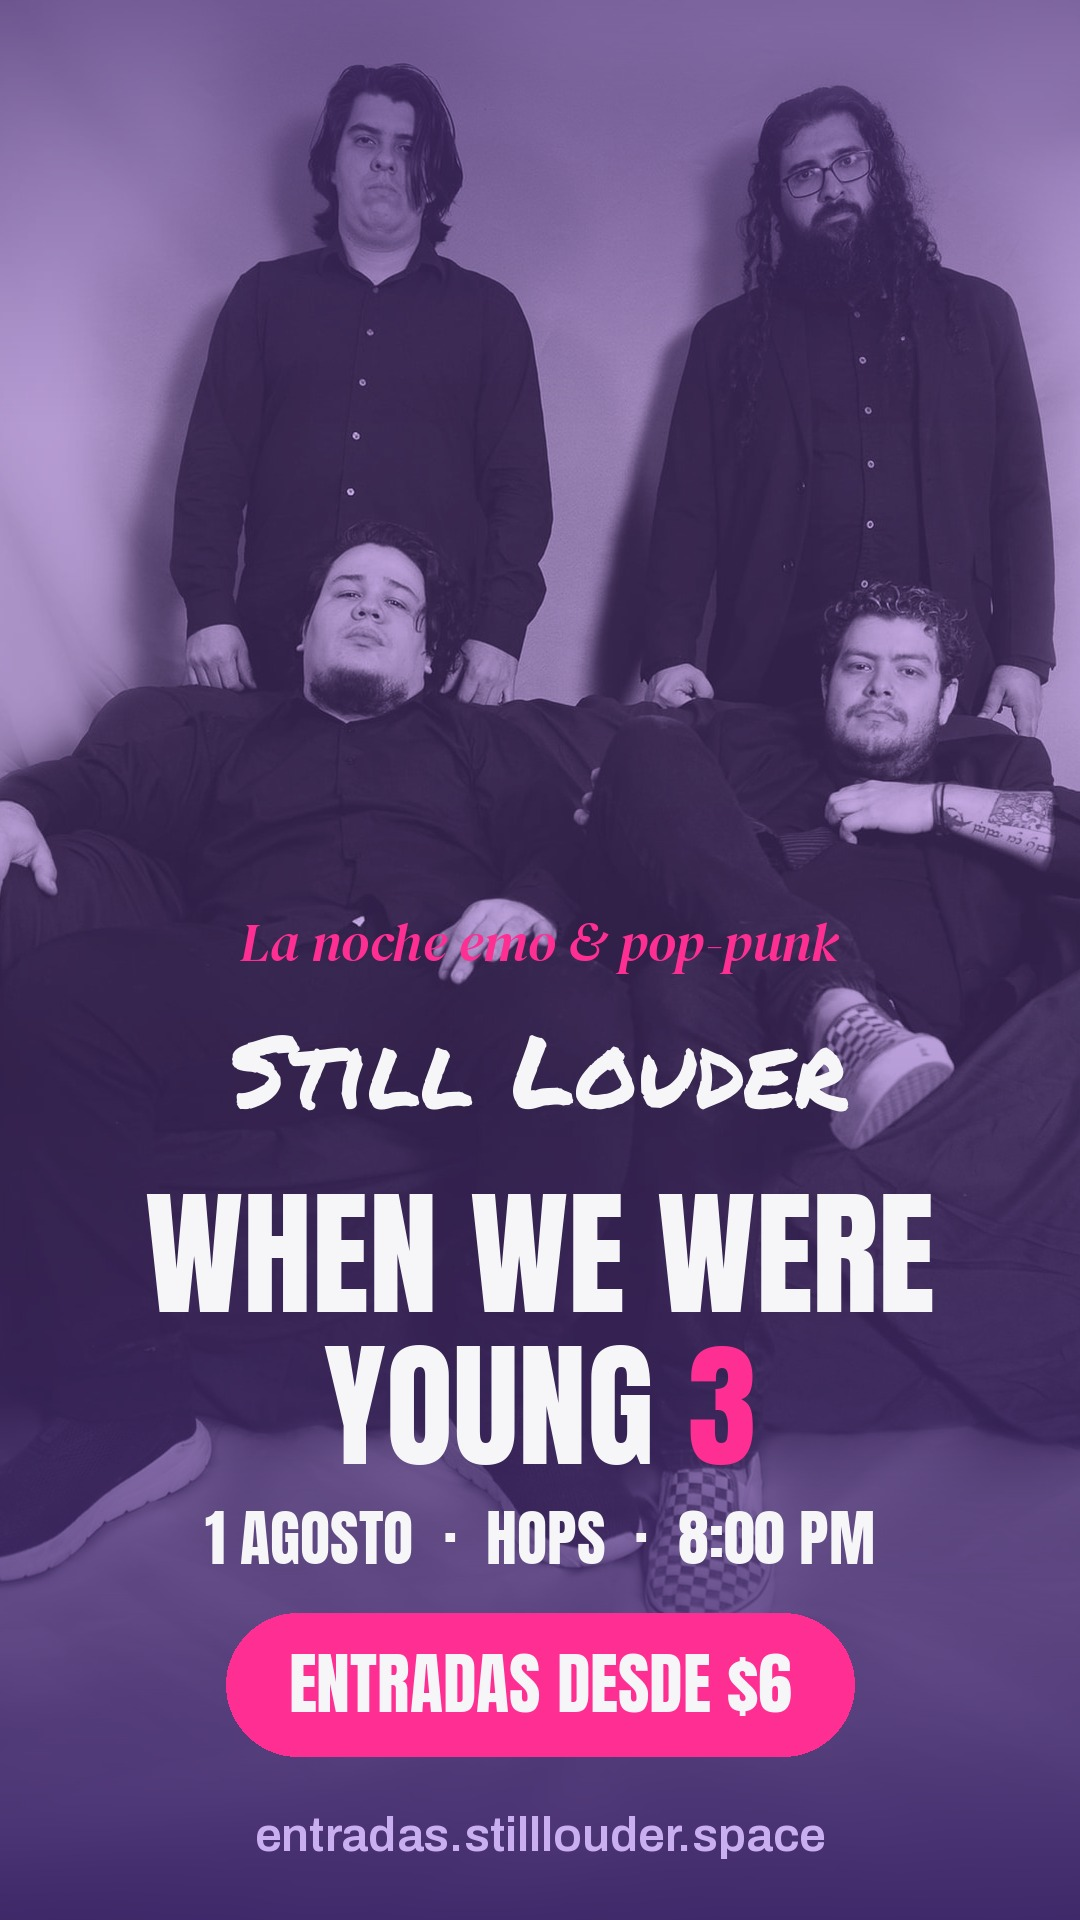
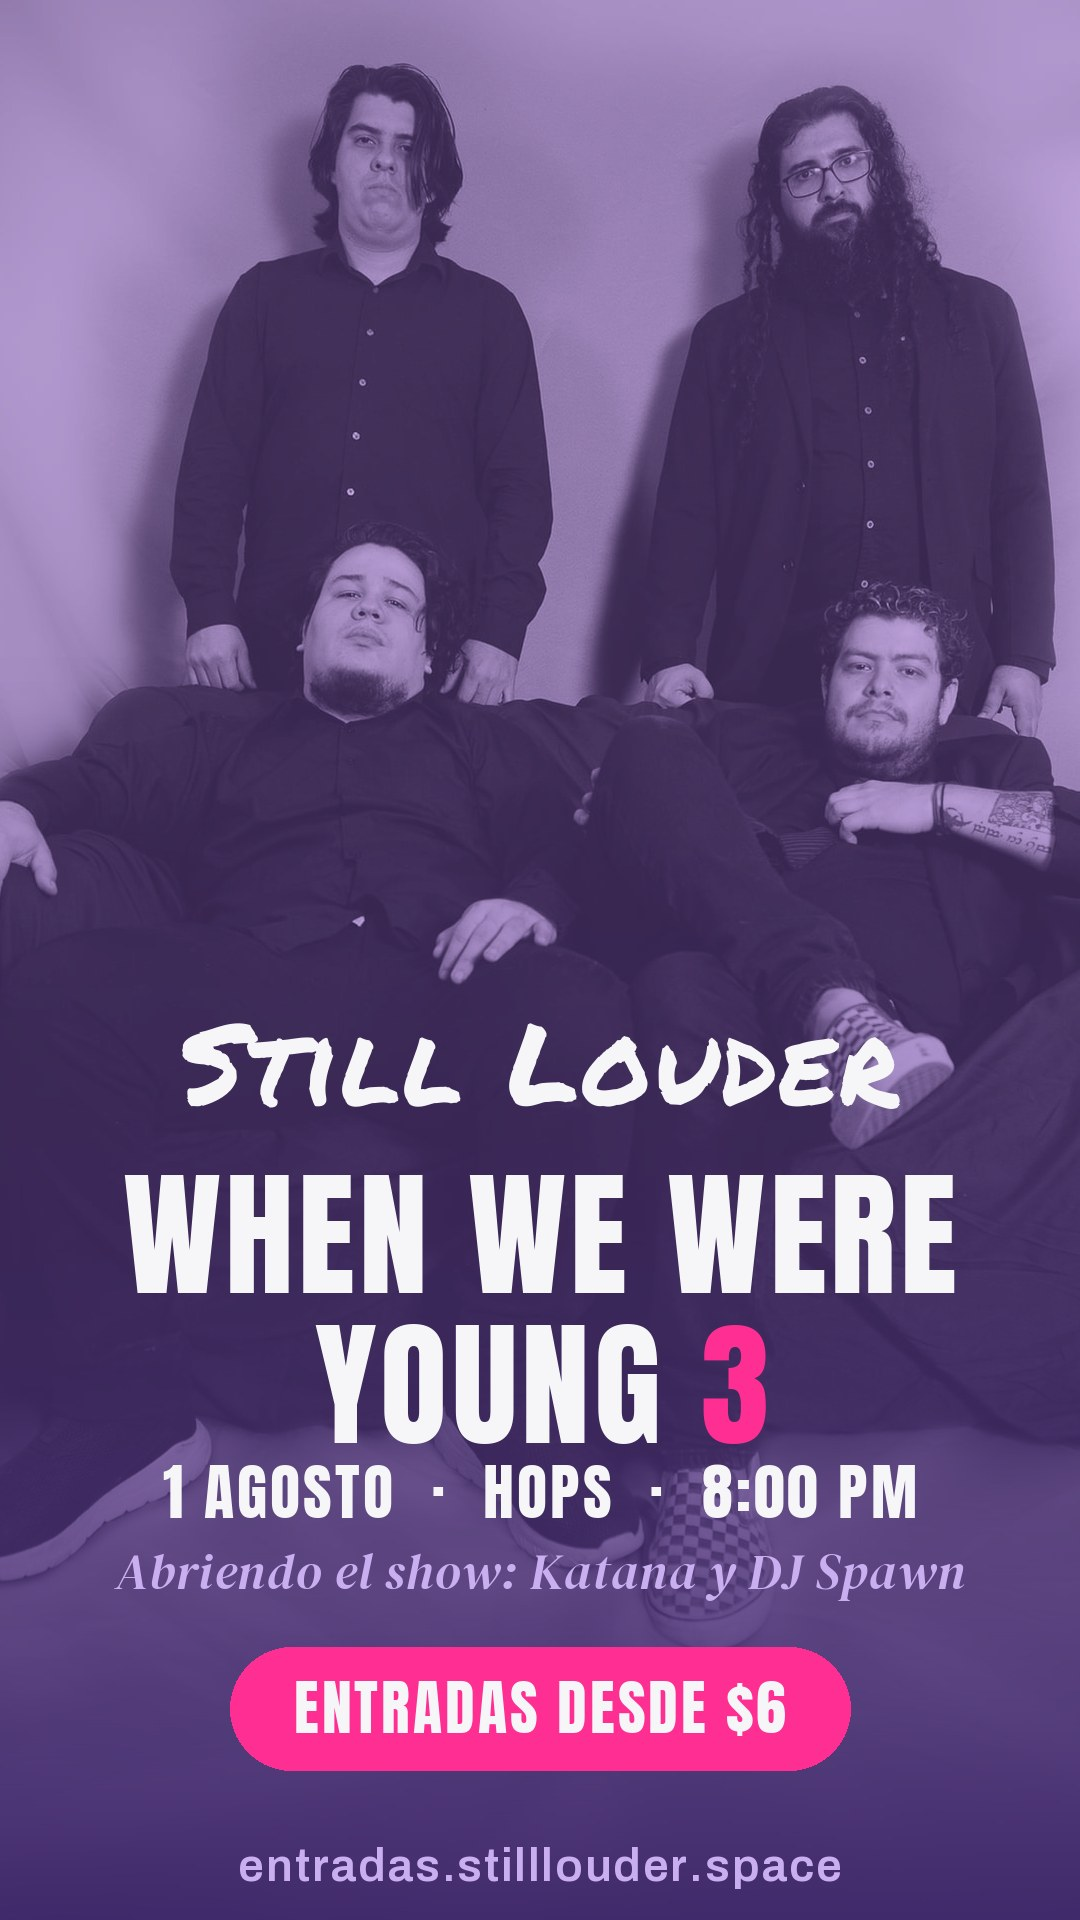
chore: update WWWY3 story image with opener acts, drop emo/pop-punk kicker
Recreate the 9:16 Instagram story in the same layout: remove the
"La noche emo & pop-punk" kicker and add "Abriendo el show: Katana y
DJ Spawn" below the date line. Also version the generator script in
scripts/ for reproducibility.

https://claude.ai/code/session_013fhQ86q2SSvqLmY538bL6r

Changed region(s): [[0.1222, 0.5312, 0.8861, 1.0], [0.0, 0.0, 1.0, 0.125], [0.2139, 0.4688, 0.7639, 0.5]]

diff --git a/scripts/make-wwwy3-story.py b/scripts/make-wwwy3-story.py
@@ -1,0 +1,166 @@
+#!/usr/bin/env python3
+"""Generate the 9:16 (1080x1920) WWWY3 ticket story image for Instagram.
+
+Recreates the OG share preview (`ticket-system/public/og-image.jpg`) in a
+vertical, full-screen layout. The OG asset is prerendered with no generator
+script, so this composes the design from scratch using the same source photo,
+duotone treatment, theme palette and fonts.
+
+Usage:
+    pip install Pillow fonttools brotli numpy
+    # convert the woff2 web fonts to ttf (Pillow can't read woff2):
+    mkdir -p /tmp/fonts
+    for f in anton-latin archivo-latin dmserifdisplay-italic-latin \
+             dmserifdisplay-latin permanentmarker-latin; do
+      python3 -c "from fontTools.ttLib import TTFont; \
+        t=TTFont('ticket-system/public/fonts/$f.woff2'); t.flavor=None; \
+        t.save('/tmp/fonts/$f.ttf')"
+    done
+    python3 scripts/make-wwwy3-story.py
+
+Writes: public/assets/images/wwwy3-story-9x16.jpg
+"""
+
+import os
+import numpy as np
+from PIL import Image, ImageDraw, ImageFont
+
+# --- paths ---------------------------------------------------------------
+REPO = os.path.dirname(os.path.dirname(os.path.abspath(__file__)))
+PHOTO = os.path.join(REPO, "public/assets/images/photoshoot/skirlaz/IMG_2433.jpg")
+FONT_DIR = "/tmp/fonts"
+OUT = os.path.join(REPO, "public/assets/images/wwwy3-story-9x16.jpg")
+
+W, H = 1080, 1920
+
+# --- theme palette (ticket-system/src/entradas/theme.css) ----------------
+PURPLE_DEEP = (62, 39, 104)     # #3e2768
+PINK = (255, 46, 147)           # #ff2e93
+LILAC = (201, 174, 240)         # #c9aef0
+PAPER = (246, 245, 248)         # #f6f5f8
+DUO_SHADOW = (38, 22, 60)       # #26163c
+DUO_HIGHLIGHT = (205, 178, 235) # #cdb2eb
+
+
+def cover(img, w, h, anchor_top=True):
+    """Scale-to-cover and crop to w x h, anchored to the top."""
+    iw, ih = img.size
+    scale = max(w / iw, h / ih)
+    nw, nh = round(iw * scale), round(ih * scale)
+    img = img.resize((nw, nh), Image.LANCZOS)
+    left = (nw - w) // 2
+    top = 0 if anchor_top else (nh - h) // 2
+    return img.crop((left, top, left + w, top + h))
+
+
+def duotone(img, shadow, highlight):
+    """Map luminance onto a shadow->highlight gradient."""
+    arr = np.asarray(img.convert("L"), dtype=np.float32) / 255.0
+    s = np.array(shadow, dtype=np.float32)
+    hi = np.array(highlight, dtype=np.float32)
+    out = s[None, None, :] + arr[:, :, None] * (hi - s)[None, None, :]
+    return Image.fromarray(np.clip(out, 0, 255).astype(np.uint8), "RGB")
+
+
+def load_font(name, size):
+    return ImageFont.truetype(os.path.join(FONT_DIR, name), size)
+
+
+def text_w(draw, s, font, tracking=0):
+    if tracking == 0:
+        return draw.textlength(s, font=font)
+    return sum(draw.textlength(ch, font=font) for ch in s) + tracking * (len(s) - 1)
+
+
+def draw_tracked(draw, x, y, s, font, fill, tracking=0, anchor_mid=True):
+    """Draw text with letter spacing. x is the center if anchor_mid."""
+    total = text_w(draw, s, font, tracking)
+    cx = x - total / 2 if anchor_mid else x
+    for ch in s:
+        draw.text((cx, y), ch, font=font, fill=fill)
+        cx += draw.textlength(ch, font=font) + tracking
+    return total
+
+
+# --- compose -------------------------------------------------------------
+photo = Image.open(PHOTO).convert("RGB")
+base = cover(photo, W, H, anchor_top=True)
+base = duotone(base, DUO_SHADOW, DUO_HIGHLIGHT)
+
+# bottom scrim toward purple-deep for text legibility
+scrim = Image.new("L", (1, H), 0)
+sp = scrim.load()
+for y in range(H):
+    t = (y - 620) / (H - 620)
+    t = max(0.0, min(1.0, t))
+    sp[0, y] = int(255 * (t ** 1.35) * 0.97)
+scrim = scrim.resize((W, H))
+purple_layer = Image.new("RGB", (W, H), PURPLE_DEEP)
+base = Image.composite(purple_layer, base, scrim)
+
+draw = ImageDraw.Draw(base)
+cx = W // 2
+
+# fonts
+f_marker = load_font("permanentmarker-latin.ttf", 112)
+f_anton_xl = load_font("anton-latin.ttf", 138)
+f_anton_md = load_font("anton-latin.ttf", 62)
+f_anton_btn = load_font("anton-latin.ttf", 60)
+f_serif = load_font("dmserifdisplay-italic-latin.ttf", 50)
+f_url = load_font("archivo-latin.ttf", 46)
+
+# --- text block ----------------------------------------------------------
+y = 980
+
+# Still Louder (Permanent Marker, paper white)
+draw_tracked(draw, cx, y, "Still Louder", f_marker, PAPER, tracking=2)
+y += 150
+
+# WHEN WE WERE (Anton, white)
+draw_tracked(draw, cx, y, "WHEN WE WERE", f_anton_xl, PAPER, tracking=4)
+y += 150
+
+# YOUNG 3  (3 in pink)
+young = "YOUNG "
+three = "3"
+total = text_w(draw, young, f_anton_xl, 4) + draw.textlength(three, font=f_anton_xl)
+startx = cx - total / 2
+xx = startx
+for ch in young:
+    draw.text((xx, y), ch, font=f_anton_xl, fill=PAPER)
+    xx += draw.textlength(ch, font=f_anton_xl) + 4
+draw.text((xx, y), three, font=f_anton_xl, fill=PINK)
+y += 165
+
+# date line (Anton)
+draw_tracked(draw, cx, y, "1 AGOSTO  ·  HOPS  ·  8:00 PM", f_anton_md, PAPER, tracking=3)
+y += 92
+
+# opener line (DM Serif italic, lilac) — replaces the old emo/pop-punk kicker
+draw_tracked(draw, cx, y, "Abriendo el show: Katana y DJ Spawn", f_serif, LILAC, tracking=1)
+y += 110
+
+# button pill (ENTRADAS DESDE $6)
+btn_text = "ENTRADAS DESDE $6"
+btn_tw = text_w(draw, btn_text, f_anton_btn, 3)
+pad_x, pad_y = 64, 34
+bb = draw.textbbox((0, 0), "ENTRADAS DESDE $6", font=f_anton_btn)
+bh = bb[3] - bb[1]
+pill_w = btn_tw + pad_x * 2
+pill_h = bh + pad_y * 2
+px0 = cx - pill_w / 2
+py0 = y
+draw.rounded_rectangle(
+    [px0, py0, px0 + pill_w, py0 + pill_h],
+    radius=pill_h / 2,
+    fill=PINK,
+)
+draw_tracked(draw, cx, py0 + pad_y - bb[1], btn_text, f_anton_btn, PAPER, tracking=3)
+y = py0 + pill_h + 70
+
+# url (Archivo)
+draw_tracked(draw, cx, y, "entradas.stilllouder.space", f_url, LILAC, tracking=2)
+
+# --- export --------------------------------------------------------------
+base.save(OUT, "JPEG", quality=88, optimize=True, progressive=True)
+print("wrote", OUT, os.path.getsize(OUT), "bytes")
